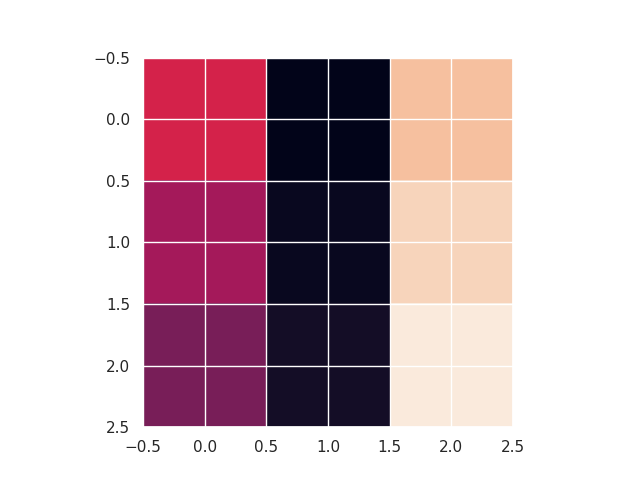
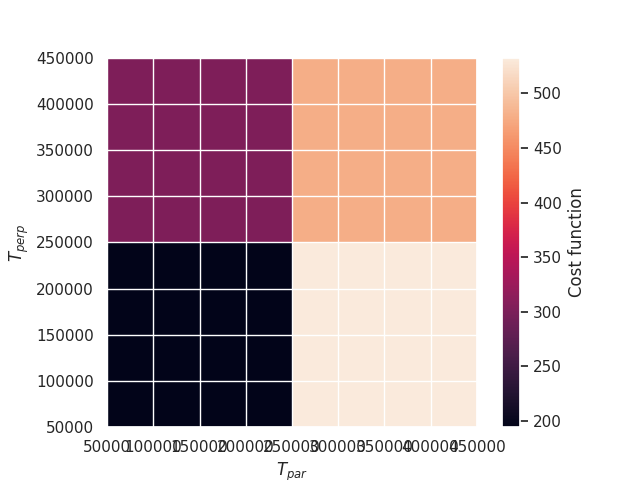
Fixed heatmap

diff --git a/Temperature_Reconstruction.py b/Temperature_Reconstruction.py
@@ -67,7 +67,7 @@ def cost_func(t_perp_guess, t_par_guess):
     return cost
 
 
-temps = np.linspace(0.5e5, 4.5e5, 4).tolist()
+temps = np.linspace(0.5e5, 4.5e5, 2).tolist()
 temp_combos = list(itertools.product(temps, temps))
 indices = list(range(len(temp_combos)))
 # perp_array = np.linspace(0.5e5, 4e5, 1e2)
@@ -86,12 +86,12 @@ with mp.Pool() as pool:
         F.flat[i] = c
         print("\033[92mCompleted %d of %d\033[0m" % (i + 1, len(temp_combos)))
 
-plt.imshow(F)
-plt.colorbar(label="Cost function")
-plt.xlabel(r"$T_\rm{par}$")
-plt.ylabel(r"$T_\rm{perp}$")
-plt.savefig("heatmap.png")
-plt.show()
+fig = plt.figure("cost function map")
+mappable = fig.gca().imshow(F, extent=[min(temps), max(temps), min(temps), max(temps)])
+fig.colorbar(mappable, label="Cost function")
+fig.gca().set_xlabel("$T_{par}$")
+fig.gca().set_ylabel("$T_{perp}$")
+fig.savefig("heatmap.png")
 
 
 def grad_descent(coeff, t_estimate):
